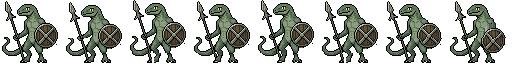
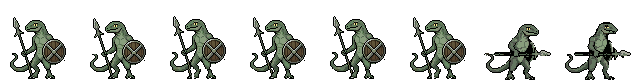
방패 도마뱀 창 찌르기: SpriteCook 움직임 (pixel-engine-v1.5) 칸을 6 창 당김 · 7 찌른 채 방패 비킴에 씀, 창이 길게 나가서 80칸으로 (늘이지 않음)
Claude-Session: https://claude.ai/code/session_01CrXT72CsQeDrvHanB1Pg9J

diff --git a/tools/import_pixellab_monster.py b/tools/import_pixellab_monster.py
@@ -11,6 +11,9 @@ import_ai_monster.py 는 큰 AI 그림을 줄여서 픽셀로 만든다. PixelLa
   python3 tools/import_pixellab_monster.py shield_07.png --out wild_shield_lizard --shield 47,35,12.4
   python3 tools/import_pixellab_monster.py shield_12.png --out wild_shield_lizard_b --shield 46,35,12.6
 그림 원본: /mnt/project-files/design/guiyeo-tall/pixellab/shield_*.png
+  (2026-10-05 SpriteCook animate_game_art pixel-engine-v1.5 창 찌르기 8칸을 6 · 7 칸에 쓰려고 80칸으로 키움:
+   python3 tools/import_pixellab_monster.py shield_07_onetail.png --out wild_shield_lizard --shield 47,35,12.4
+       --cell 80 --thrust spritecook/thrust_v3.webp   (13번은 thrust_b.webp, 칸 속 자리 --thrust-at 은 그림마다 확인))
   (2026-10-05 원본은 꼬리가 몸 앞뒤로 두 개라서 앞 꼬리를 지운 shield_*_onetail.png 를 쓴다)
   python3 tools/import_pixellab_monster.py shield_07_onetail.png --out wild_shield_lizard --shield 47,35,12.4
   python3 tools/import_pixellab_monster.py shield_12_onetail.png --out wild_shield_lizard_b --shield 46,35,12.6
@@ -156,6 +159,32 @@ def build(img, cx, cy, r):
     return frames
 
 
+def with_thrust(img, frames, path, cell, which, at):
+    """원본 칸을 cell 칸 가운데 아래에 놓고, 6 · 7 칸은 SpriteCook 움직임 칸으로 바꾼다.
+    움직임은 원본보다 6px 큰 칸 (가장자리 여백) 이라 창이 앞으로 길게 나간다: 그래서 칸을 키운다 (늘이지 않음).
+    색은 원본 색에 다시 맞춘다 (움직임 칸은 조금 바랜 색으로 나온다)."""
+    from PIL import ImageSequence
+    w, h = img.size
+    ox, oy = (cell - w) // 2, cell - h
+    dx, dy = (int(v) for v in at.split(","))
+    pal = img.convert("RGB").quantize(256, method=Image.Quantize.MEDIANCUT)
+    moves = [f.convert("RGBA").copy() for f in ImageSequence.Iterator(Image.open(path))]
+    out = []
+    for f in frames:
+        o = Image.new("RGBA", (cell, cell), (0, 0, 0, 0))
+        o.alpha_composite(f, (ox, oy))
+        out.append(o)
+    for col, k in zip((6, 7), (int(v) for v in which.split(","))):
+        m = moves[k]
+        rgb = m.convert("RGB").quantize(palette=pal, dither=Image.Dither.NONE).convert("RGB")
+        snap = Image.new("RGBA", m.size, (0, 0, 0, 0))
+        snap.paste(rgb, (0, 0), m.getchannel("A").point(lambda v: 255 if v > 110 else 0))
+        o = Image.new("RGBA", (cell, cell), (0, 0, 0, 0))
+        o.alpha_composite(snap, (ox - dx, oy - dy))
+        out[col] = o
+    return out
+
+
 def main():
     ap = argparse.ArgumentParser()
     ap.add_argument("src")
@@ -163,6 +192,9 @@ def main():
     ap.add_argument("--shield", help="방패 원: 가운데 x,y,반지름 (없으면 7 칸은 숨 고름)")
     ap.add_argument("--height", type=int, help="이 키로 줄인다 (큰 그림일 때)")
     ap.add_argument("--cell", type=int, help="칸 크기 (없으면 그림 높이)")
+    ap.add_argument("--thrust", help="SpriteCook 창 찌르기 움직임 (webp 8칸): 6 · 7 칸을 이걸로 바꾼다")
+    ap.add_argument("--thrust-frames", default="3,5", help="6 칸 (창 당김) · 7 칸 (찌른 채 방패 비킴) 에 쓸 움직임 칸 번호")
+    ap.add_argument("--thrust-at", default="5,6", help="움직임 칸 속에서 원본 그림 왼쪽 위 자리 x,y")
     ap.add_argument("--flip", action="store_true")
     ap.add_argument("--preview")
     a = ap.parse_args()
@@ -171,11 +203,13 @@ def main():
         img = img.transpose(Image.FLIP_LEFT_RIGHT)
     if a.height:
         img = shrink(img, a.height)
-    if a.cell:
+    if a.cell and not a.thrust:
         img = place(img, a.cell)
     cx, cy, r = (float(v) for v in a.shield.split(",")) if a.shield else (0, 0, 0)
     frames = build(img, int(cx), int(cy), r)
-    c = img.size[1]
+    if a.thrust:
+        frames = with_thrust(img, frames, a.thrust, a.cell, a.thrust_frames, a.thrust_at)
+    c = frames[0].size[1]
     sheet = Image.new("RGBA", (c * len(frames), c), (0, 0, 0, 0))
     for i, f in enumerate(frames):
         sheet.alpha_composite(f, (i * c, 0))
